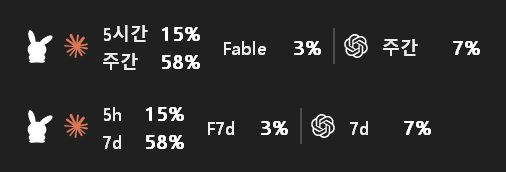
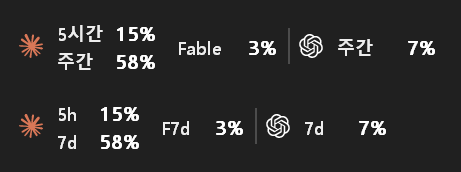
Docs: Polish readme and fix images
- README를 소개·기능·설치·작동 방식 구성으로 재작성
- 로고, 배지, 작동 방식 그림 추가
- 위젯 사진을 실제 위젯 모양으로 교체
- 리소스 사용량 측정값 추가

diff --git a/README.md b/README.md
@@ -1,69 +1,95 @@
+<div align="center">
+
+<picture>
+  <source media="(prefers-color-scheme: dark)" srcset="docs/images/logo-dark.png">
+  <img src="docs/images/logo-light.png" width="80" alt="usAgI 로고">
+</picture>
+
 # usAgI
 
-Claude와 ChatGPT(Codex) 구독 사용량을 작업 표시줄과 메뉴 막대에 항상 표시하는 프로그램.
+**Claude와 ChatGPT 구독 사용량을 작업 표시줄에서 바로 확인**
 
-![작업 표시줄 위젯](docs/images/widget.png)
+[![릴리스](https://img.shields.io/github/v/release/Ba-koD/usAgI?label=release)](https://github.com/Ba-koD/usAgI/releases/latest)
+[![빌드](https://github.com/Ba-koD/usAgI/actions/workflows/release.yml/badge.svg)](https://github.com/Ba-koD/usAgI/actions/workflows/release.yml)
+![플랫폼](https://img.shields.io/badge/platform-Windows%20%7C%20macOS-4c8bf5)
 
-5시간·주간 한도를 얼마나 썼는지, 언제 리셋되는지 창을 열지 않고 확인 가능.
-Windows는 작업 표시줄 위젯, macOS는 메뉴 막대에 표시.
+[내려받기](https://github.com/Ba-koD/usAgI/releases/latest) · [기능](#기능) · [설치](#설치) · [작동 방식](#작동-방식) · [개발 문서](docs/DEVELOPMENT.md)
 
-## 장점
+<img src="docs/images/widget.png" alt="작업 표시줄 위젯" width="840">
 
-| | |
-|---|---|
-| **가벼움** | 메모리 약 8MB (Windows), 약 14MB (macOS). CPU 사용 0.1% 미만 |
-| **정확** | 공식 CLI가 알려 주는 수치 그대로 표시. 추정 없음 |
-| **안전** | 로그인과 토큰은 공식 CLI가 관리. usAgI는 읽거나 저장하거나 전송하지 않음 |
-| **간단** | 실행 파일 하나. 설치 과정 없음 |
+</div>
 
-메모리와 CPU는 0.2.0을 실행해 측정한 값 (작업 관리자·활성 상태 보기의 메모리 기준, Windows는 계정 2개 연결 상태에서 60초).
-설정 창은 열 때만 실행되고(약 7MB) 닫으면 종료.
+## 소개
+
+Claude Code나 Codex를 쓰다가 한도가 얼마나 남았는지 확인하려면 `/usage`를 입력하거나 사용량 페이지를 열어야 함.
+usAgI는 그 수치를 Windows 작업 표시줄과 macOS 메뉴 막대에 항상 표시하고, 정해 둔 기준에 도달하면 알림을 보내는 프로그램.
+
+- 공식 CLI가 알려 주는 수치를 그대로 표시 (추정 없음)
+- 로그인과 토큰은 공식 CLI가 관리 (usAgI는 읽거나 저장하거나 전송하지 않음)
+- Rust로 만든 단일 실행 파일, 실행 중 메모리 약 8MB
 
 ## 기능
 
-- **위젯**: 계정·그래프별로 표시할 항목 선택. 퍼센트 또는 리셋까지 남은 시간 표시
-- **계정 여러 개**: Claude와 ChatGPT·Codex 계정을 함께 관리. 5시간·주간·모델별 한도, 크레딧, 리필권 표시
-- **알림**: 사용량 기준(예: 80%), 리셋 전 시점(예: 30분 전), 한도 도달·리셋, 로그인 만료, 리필권 만료
-- **화면 설정**: 테마(시스템·라이트·다크), 언어(한국어·English), 로고 색, 위젯 막대 길이
-- **자동 업데이트**: 체크섬과 서명을 확인한 파일만 설치
+### 작업 표시줄 위젯
 
-![사용량 화면](docs/images/settings-usage.png)
+계정과 그래프별로 표시할 항목을 고르고, 퍼센트와 리셋까지 남은 시간을 우클릭으로 전환.
+작업 표시줄 자리가 좁으면 막대 → 라벨과 값 → 짧은 표기 순서로 자동 축소.
 
-| 알림 추가 | 라이트 테마 · English |
-|---|---|
-| ![알림 추가](docs/images/settings-alert.png) | ![라이트 테마](docs/images/settings-light.png) |
+<p align="center"><img src="docs/images/widget-compact.png" alt="좁은 자리에서 줄어든 위젯" width="400"></p>
 
-작업 표시줄 자리가 좁으면 위젯이 단계적으로 축소:
+### 계정과 사용량
 
-![좁은 자리의 위젯](docs/images/widget-compact.png)
+Claude와 ChatGPT·Codex 계정을 여러 개 연결.
+5시간·주간·모델별 한도와 리셋 시각, 크레딧, 리필권을 한 화면에 표시.
 
-## 작동 방식
+<p align="center"><img src="docs/images/settings-usage.png" alt="사용량 화면" width="840"></p>
 
-1. 계정을 추가하면 공식 CLI(Claude Code, Codex)의 로그인이 브라우저에서 진행. CLI가 없으면 각 회사의 공식 설치 프로그램으로 자동 설치
-2. 설정한 주기(기본 5분)마다 공식 CLI에 사용량 요청 (`claude -p "/usage"`, `codex app-server`). 토큰을 쓰지 않고 5시간 창도 열지 않음
-3. Claude Code를 쓰는 동안에는 상태 표시줄 연결로 메시지마다 바로 갱신
-4. 받은 수치를 위젯에 그리고, 정한 기준에 도달하면 알림 표시
+### 알림
 
-브라우저 쿠키와 공급자 웹 API는 사용하지 않음.
-외부로 나가는 요청은 GitHub 업데이트 확인과 공식 CLI 설치 스크립트 내려받기뿐.
+그래프마다 사용량 기준(예: 80%)이나 리셋 전 시점(예: 30분 전)을 추가.
+한도 도달·리셋, 로그인 만료, 리필권 만료 알림도 선택 가능.
+
+<p align="center"><img src="docs/images/settings-alert.png" alt="알림 추가" width="840"></p>
+
+### 화면 설정
+
+테마(시스템·라이트·다크), 언어(한국어·English), 로고 색, 위젯 막대 길이 변경.
+
+<p align="center"><img src="docs/images/settings-light.png" alt="라이트 테마와 영어 화면" width="840"></p>
 
 ## 설치
 
-[Releases](../../releases)에서 내려받기. 필요한 것: 인터넷 연결, Claude 또는 ChatGPT 계정.
+필요한 것: 인터넷 연결, Claude 또는 ChatGPT 계정.
 
-**Windows 10 / 11**
+### Windows 10 / 11
 
-- `usagi.exe`를 받아 실행 (설정은 `%APPDATA%\usAgI`에 저장)
-- 폴더째 옮겨 쓰려면 `usAgI-portable-x.y.z.zip` (설정은 옆의 `data` 폴더에 저장)
-- 포터블 주의: 계정을 추가하면 `data\profiles`에 공식 CLI의 로그인 파일이 생기므로 `data` 폴더는 공유 금지
+[최신 릴리스](https://github.com/Ba-koD/usAgI/releases/latest)에서 파일을 받아 실행. 설치 과정 없음.
 
-**macOS**
+| 파일 | 설명 |
+|---|---|
+| `usagi.exe` | 실행 파일. 설정은 `%APPDATA%\usAgI`에 저장 |
+| `usAgI-portable-x.y.z.zip` | 포터블. 설정을 옆의 `data` 폴더에 저장 |
+
+> [!NOTE]
+> 포터블에서 계정을 추가하면 `data\profiles`에 공식 CLI의 로그인 파일이 생김. `data` 폴더는 다른 사람과 공유 금지.
+
+### macOS
 
 ```bash
 curl -fsSL https://raw.githubusercontent.com/Ba-koD/usAgI/main/scripts/install-mac.sh | bash
 ```
 
-또는 `brew install --cask Ba-koD/usagi/usagi`.
+Homebrew 사용 시:
+
+```bash
+brew install --cask Ba-koD/usagi/usagi
+```
+
+### 처음 실행
+
+1. 위젯을 더블클릭해 설정 창 열기 (macOS는 메뉴 막대 아이콘 → 설정)
+2. 사용량 화면의 **추가**에서 Claude 또는 ChatGPT·Codex 선택
+3. 브라우저에서 로그인 승인. 이 PC에 이미 로그인된 CLI가 있으면 바로 연결
 
 ## 사용법
 
@@ -72,10 +98,47 @@ curl -fsSL https://raw.githubusercontent.com/Ba-koD/usAgI/main/scripts/install-m
 | 위젯 더블클릭 | 설정 창 |
 | 위젯 우클릭 | 퍼센트 ↔ 리셋까지 남은 시간 |
 | 알림 영역 아이콘 우클릭 | 설정 열기 · 위젯 표시 · 새로고침 · 종료 |
-| 설정 → 사용량 → **추가** | Claude 또는 ChatGPT·Codex 계정 연결 |
-| 그래프의 **알림 추가** | 사용량 기준이나 리셋 전 시점 알림 |
+| 그래프의 **알림 추가** | 사용량 기준이나 리셋 전 시점 알림 추가 |
+| 계정 카드 왼쪽 ⠿ 끌기 | 계정 순서 변경 (위젯도 같은 순서) |
+
+## 작동 방식
+
+```mermaid
+flowchart LR
+    CLI["공식 CLI<br>claude · codex"] -- 사용량 --> APP["usAgI"]
+    APP --> WIDGET["작업 표시줄 위젯<br>메뉴 막대"]
+    APP --> ALERT["알림"]
+```
+
+1. 계정을 추가하면 공식 CLI(Claude Code, Codex)의 로그인이 브라우저에서 진행. CLI가 없으면 각 회사의 공식 설치 프로그램으로 자동 설치
+2. 설정한 주기(기본 5분)마다 공식 CLI에 사용량 요청 (`claude -p "/usage"`, `codex app-server`). 토큰을 쓰지 않고 5시간 창도 열지 않음
+3. Claude Code를 쓰는 동안에는 상태 표시줄 연결로 메시지마다 바로 갱신
+4. 받은 수치를 위젯에 그리고, 정한 기준에 도달하면 알림 표시
+
+## 리소스 사용량
+
+0.2.0을 실제로 실행한 상태에서 60초 동안 측정한 값.
+
+| 프로세스 | 메모리 | CPU |
+|---|---|---|
+| Windows 본체 (위젯 + 알림 영역) | 약 8MB | 0.1% 미만 |
+| Windows 설정 창 (열려 있을 때만) | 약 7MB | 0.1% 미만 |
+| macOS 본체 (메뉴 막대) | 약 14MB | 0.1% 미만 |
+
+- 메모리는 작업 관리자와 활성 상태 보기에 표시되는 값 기준. Windows는 계정 2개를 연결한 상태
+- 설정 창은 별도 프로세스로 실행되고, 닫으면 종료
+- 갱신 주기마다 공식 CLI가 몇 초 실행되며, 그 사용량은 위 값에 포함되지 않음
+
+## 개인정보와 보안
+
+- **로그인 정보**: 공식 CLI가 보관. usAgI는 토큰과 로그인 파일을 읽지 않음
+- **네트워크**: GitHub 업데이트 확인·내려받기와 공식 CLI 설치 스크립트 내려받기뿐. 사용 정보 수집 없음
+- **업데이트**: 이 저장소의 릴리스 파일만 허용. 체크섬과 서명을 모두 확인한 뒤 설치
+- **프로필 폴더**: 계정마다 만드는 폴더는 이 사용자만 접근 가능하게 생성
+
+자세한 내용은 [개발 문서](docs/DEVELOPMENT.md) 참고.
 
 ## 문서
 
-- [개발 문서](docs/DEVELOPMENT.md): 사용량 출처, 업데이트·보안, 빌드, 릴리스, 코드 구조
+- [개발 문서](docs/DEVELOPMENT.md): 사용량 출처, 업데이트와 서명, 빌드, 릴리스, 코드 구조
 - [변경 내역](CHANGELOG.md)
